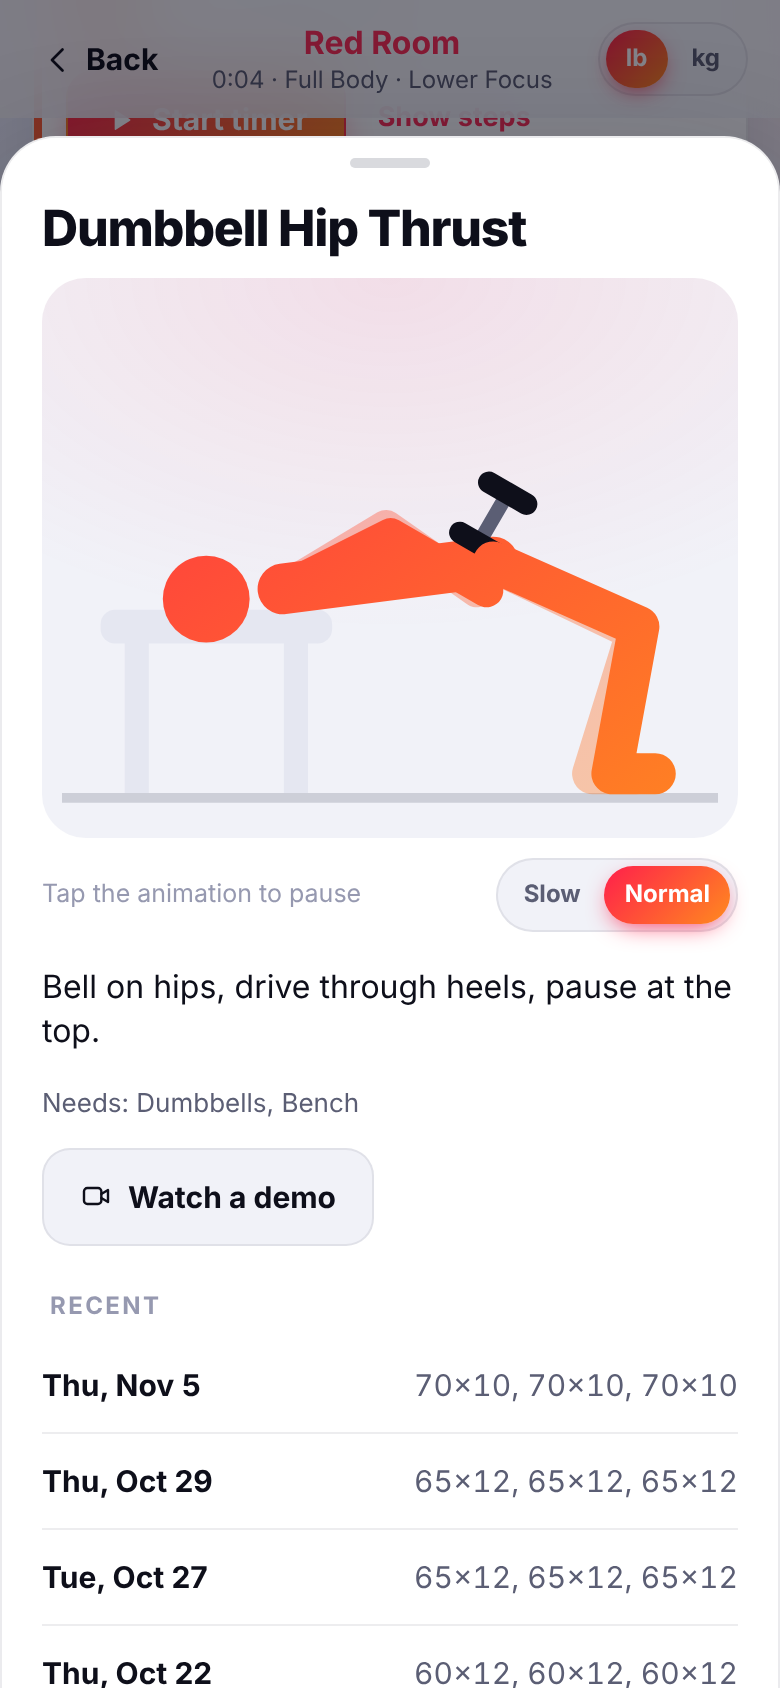
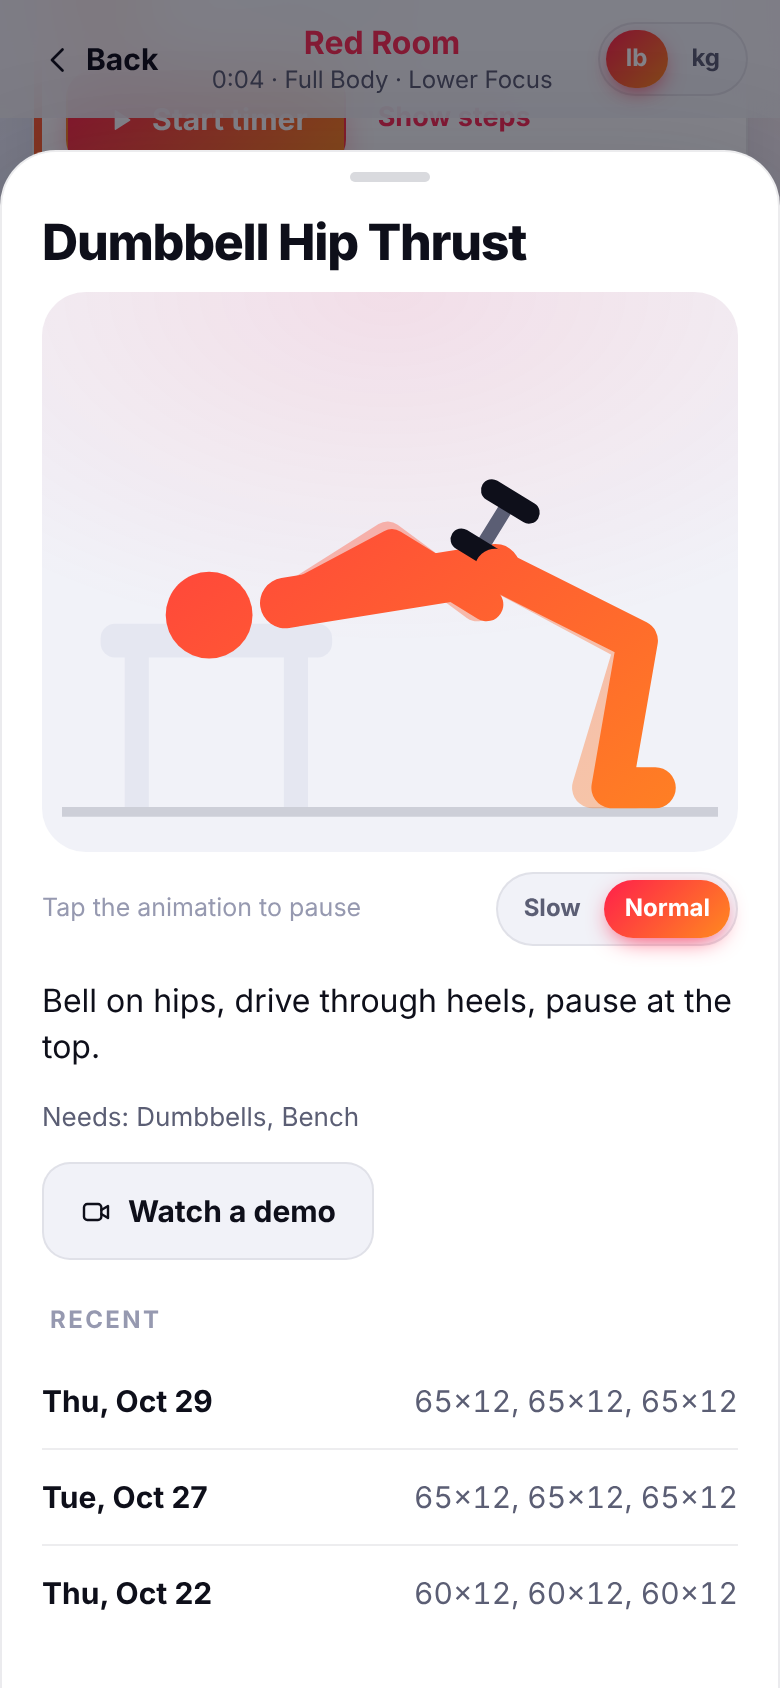
Dumbbells & bodyweight only, like the studio floor
- New setting, on by default (and switched on for existing data): every
  session uses only dumbbells, a bench or bodyweight. Barbells, machines,
  cables, kettlebells, bands and pull-up bars are skipped even when the
  location has them. Swap choices follow the same rule.
- Seven new dumbbell moves with animations: sumo squat, glute bridge,
  floor pullover, front raise, upright row, woodchop and weighted crunch.
- Arms & Shoulders day now pairs a press with a curl as its main lifts.
- Core picks no longer favor weighted moves, so abs work varies more.
- Tests: dumbbell-only sessions never need other kit at any location,
  main lifts use dumbbells, and swap options respect the setting.

Claude-Session: https://claude.ai/code/session_01Tx5GKrw7dyFVqDZcQyPf1z

diff --git a/js/exercises.js b/js/exercises.js
@@ -39,6 +39,7 @@ x('back-squat', 'Back Squat', 'squat', ['barbell'], 'w', { main: true, cue: 'Bra
 x('leg-press', 'Leg Press', 'squat', ['machine'], 'w', { main: true, cue: 'Feet shoulder width, lower until hips start to tuck.' });
 x('goblet-squat', 'Goblet Squat', 'squat', ['db'], 'w', { main: true, cue: 'Elbows inside knees, chest tall, pause at the bottom.' });
 x('db-front-squat', 'Dumbbell Front Squat', 'squat', ['db'], 'w', { main: true, cue: 'Bells on shoulders, elbows high, knees track toes.' });
+x('db-sumo-squat', 'Dumbbell Sumo Squat', 'squat', ['db'], 'w', { main: true, cue: 'Wide stance, toes out, one bell hanging between your legs.' });
 x('kb-goblet-squat', 'Kettlebell Goblet Squat', 'squat', ['kb'], 'w', { main: true, cue: 'Hold the horns, sit deep, stand tall.' });
 x('tempo-squat', 'Tempo Air Squat', 'squat', [], 'bw', { main: true, base: 15, cue: '3 seconds down, 1 second pause, stand fast.' });
 x('band-squat', 'Banded Squat', 'squat', ['band'], 'bw', { main: true, base: 15, cue: 'Stand on the band, handles at shoulders.' });
@@ -71,6 +72,7 @@ x('nordic-neg', 'Nordic Curl Negative', 'ham', [], 'bw', { base: 5, cue: 'Anchor
 // Glutes
 x('bb-hip-thrust', 'Barbell Hip Thrust', 'glute', ['barbell', 'bench'], 'w', { main: true, cue: 'Chin tucked, ribs down, pause at the top.' });
 x('db-hip-thrust', 'Dumbbell Hip Thrust', 'glute', ['db', 'bench'], 'w', { cue: 'Bell on hips, drive through heels, pause at the top.' });
+x('db-glute-bridge', 'Dumbbell Glute Bridge', 'glute', ['db'], 'w', { cue: 'Bell on your hips, drive through the heels, squeeze at the top.' });
 x('cable-kickback', 'Cable Kickback', 'glute', ['machine'], 'w', { uni: true, cue: 'Kick back and slightly out, no low-back arch.' });
 x('sl-bridge', 'Single-leg Glute Bridge', 'glute', [], 'bw', { uni: true, base: 12, cue: 'Other knee to chest, squeeze hard at the top.' });
 x('band-bridge', 'Banded Glute Bridge', 'glute', ['band'], 'bw', { base: 20, cue: 'Band above knees, push knees out.' });
@@ -119,12 +121,15 @@ x('pull-up', 'Pull-up', 'pull_v', ['bar'], 'bw', { main: true, base: 6, cue: 'De
 x('chin-up', 'Chin-up', 'pull_v', ['bar'], 'bw', { main: true, base: 6, cue: 'Palms facing you, chest to the bar.' });
 x('lat-pulldown', 'Lat Pulldown', 'pull_v', ['machine'], 'w', { main: true, cue: 'Pull to the collarbone, elbows to the pockets.' });
 x('db-pullover', 'Dumbbell Pullover', 'pull_v', ['db', 'bench'], 'w', { cue: 'Long arms, stretch the lats, pull back over the chest.' });
+x('db-floor-pullover', 'Floor Pullover', 'pull_v', ['db'], 'w', { cue: 'Lie on the floor, long arms, lower the bell behind your head and pull it back.' });
 x('band-pulldown', 'Banded Lat Pulldown', 'pull_v', ['band'], 'bw', { base: 15, cue: 'Band overhead, pull elbows down to ribs.' });
 x('prone-pulldown', 'Floor Lat Pulldown', 'pull_v', [], 'bw', { base: 12, cue: 'Face down, arms overhead, pull elbows to ribs, squeeze.' });
 
 // Shoulders
 x('lateral-raise', 'Lateral Raise', 'shoulder', ['db'], 'w', { cue: 'Lead with the elbows, stop at shoulder height.' });
 x('rear-delt-fly', 'Rear-delt Fly', 'shoulder', ['db'], 'w', { cue: 'Hinge over, sweep the arms wide, pinkies up.' });
+x('db-front-raise', 'Front Raise', 'shoulder', ['db'], 'w', { cue: 'Straight arms up to shoulder height, no swinging.' });
+x('db-upright-row', 'Dumbbell Upright Row', 'shoulder', ['db'], 'w', { cue: 'Pull the bells up to your chest, elbows lead and finish high.' });
 x('cable-lateral', 'Cable Lateral Raise', 'shoulder', ['machine'], 'w', { uni: true, cue: 'Cable behind you, smooth arc.' });
 x('face-pull', 'Face Pull', 'shoulder', ['machine'], 'w', { cue: 'Rope to the eyes, thumbs back.' });
 x('band-pull-apart', 'Band Pull-apart', 'shoulder', ['band'], 'bw', { base: 20, cue: 'Straight arms, pull the band to the chest.' });
@@ -158,6 +163,8 @@ x('flutter', 'Flutter Kicks', 'core', [], 't', { base: 30, cue: 'Low back down, 
 x('mountain-climber', 'Mountain Climber', 'core', [], 't', { base: 30, cue: 'Hips level, knees drive fast.' });
 x('russian-twist', 'Dumbbell Russian Twist', 'core', ['db'], 'w', { uni: true, cue: 'Lean back, rotate from the ribs.' });
 x('hanging-knee', 'Hanging Knee Raise', 'core', ['bar'], 'bw', { base: 10, cue: 'No swing, curl the pelvis up.' });
+x('db-woodchop', 'Dumbbell Woodchop', 'core', ['db'], 'w', { uni: true, cue: 'Bell high over one shoulder, chop down across to the opposite knee.' });
+x('db-crunch', 'Weighted Crunch', 'core', ['db'], 'w', { cue: 'Bell on your chest, curl your shoulders off the floor, lower slowly.' });
 x('woodchop', 'Cable Woodchop', 'core', ['machine'], 'w', { uni: true, cue: 'Rotate through the torso, arms long.' });
 x('pallof', 'Pallof Press', 'core', ['band'], 'bw', { uni: true, base: 10, cue: 'Press out and resist the rotation.' });
 x('bird-dog', 'Bird Dog', 'core', [], 'bw', { uni: true, base: 10, cue: 'Reach long, hips square, pause.' });

diff --git a/js/anim.js b/js/anim.js
@@ -68,6 +68,14 @@ const T = {
     const slow = v === 'tempo' ? 2600 : 1200;
     return { props, frames: [[P({ feet, hands, elbow }), slow, 300], [P({ hip: [84, 116], torso: 148, feet, hands, elbow }), 900, 200]] };
   },
+  sumo() {
+    const feet = [[70, 146], [130, 146]];
+    const elbow = [[-0.3, 1], [0.3, 1]];
+    return {
+      view: 'front', props: [{ t: 'db', at: 'hc' }],
+      frames: [[F({ hip: [100, 90], feet, hands: [[97, 114], [103, 114]], elbow }), 1200, 250], [F({ hip: [100, 112], feet, hands: [[97, 136], [103, 136]], elbow }), 900, 200]],
+    };
+  },
   jumpsquat() {
     const feet = [[104, 146], [98, 146]];
     const stand = P({ feet, hands: HANG });
@@ -167,7 +175,7 @@ const T = {
   },
   bridge(v) {
     const far = v === 'sl' ? [114, 100] : [122, 146];
-    const props = v === 'band' ? [{ t: 'ring', at: 'k1' }] : [];
+    const props = v === 'band' ? [{ t: 'ring', at: 'k1' }] : v === 'db' ? [{ t: 'db', at: 'hip', off: [0, -9] }] : [];
     const base = { head: -95, hands: [[100, 146], [98, 146]], elbow: both([0, 1]), knee: both([0, -1]) };
     return {
       props,
@@ -216,6 +224,9 @@ const T = {
   },
   floorpress(v) {
     const base = { hip: [118, 140], torso: -90, head: -90, feet: [[140, 146], [136, 146]], knee: both([0, -1]), elbow: both([0, 1]) };
+    if (v === 'pullover') {
+      return { props: [{ t: 'db', at: 'hc' }], frames: [[P({ ...base, hands: [[78, 92], [76, 92]] }), 1400, 150], [P({ ...base, hands: [[26, 136], [24, 136]], elbow: both([0, -1]) }), 1100, 200]] };
+    }
     if (v === 'skull') {
       return { props: [{ t: 'db', at: 'h1' }, { t: 'db', at: 'h2', far: 1 }], frames: [[P({ ...base, hands: [[78, 92], [76, 92]] }), 1200, 150], [P({ ...base, hands: [[58, 118], [56, 118]], elbow: both([0.3, -1]) }), 900, 150]] };
     }
@@ -358,6 +369,18 @@ const T = {
       frames: [[P({ ...base, hands: [S(2, 44), S(0, 44)] }), 1000, 150], [P({ ...base, hands: [S(-34, 14), S(-36, 14)], elbow: both([0, 1]) }), 900, 250]],
     };
   },
+  uprow() {
+    const feet = [[104, 146], [98, 146]];
+    return { props: [{ t: 'db', at: 'h1' }, { t: 'db', at: 'h2', far: 1 }], frames: [[P({ feet, hands: [S(6, 44), S(4, 44)] }), 900, 150], [P({ feet, hands: [S(10, 8), S(8, 8)], elbow: both([-0.2, -1]) }), 900, 250]] };
+  },
+  frontraise() {
+    const feet = [[104, 146], [98, 146]];
+    return { props: [{ t: 'db', at: 'h1' }, { t: 'db', at: 'h2', far: 1 }], frames: [[P({ feet, hands: [S(6, 46), S(4, 46)] }), 1000, 150], [P({ feet, hands: [S(47, 0), S(45, 0)], elbow: both([0, 1]) }), 1000, 250]] };
+  },
+  crunch() {
+    const base = { hip: [100, 140], feet: [[126, 146], [122, 146]], knee: both([0, -1]), hands: [S(10, -8), S(8, -8)], elbow: both([1, 1]) };
+    return { props: [{ t: 'db', at: 'hc' }], frames: [[P({ ...base, torso: -88, head: -92 }), 900, 150], [P({ ...base, torso: -125, head: -135 }), 800, 250]] };
+  },
   facepull() {
     const feet = [[110, 146], [92, 146]];
     return {
@@ -469,10 +492,10 @@ const T = {
       frames: [[P({ hip: [100, 98], feet: [[100, 156], [98, 156]], toe: [20, 20], hands }), 1000, 150], [P({ hip: [98, 96], torso: 186, feet: [[126, 98], [124, 98]], knee: both([1, -0.3]), toe: [60, 60], hands }), 800, 250]],
     };
   },
-  woodchop() {
+  woodchop(v) {
     const feet = [[76, 146], [124, 146]];
     return {
-      view: 'front', props: [{ t: 'cable', from: 'hc', to: [192, 14] }],
+      view: 'front', props: [v === 'db' ? { t: 'db', at: 'hc' } : { t: 'cable', from: 'hc', to: [192, 14] }],
       frames: [[F({ hip: [100, 86], torso: 172, feet, hands: [[146, 36], [142, 40]], elbow: [[0, 1], [0, 1]] }), 900, 150], [F({ hip: [96, 96], torso: 194, feet, hands: [[60, 122], [64, 124]], elbow: [[0, 1], [0, 1]] }), 800, 250]],
     };
   },
@@ -623,7 +646,8 @@ const EX = {
   'bench-dip': ['dip'], 'diamond-push-up': ['pushup'], 'band-pushdown': ['pushdown', 'band'], plank: ['plank'], 'side-plank': ['sideplank'],
   'dead-bug': ['deadbug'], 'hollow-hold': ['hollow'], bicycle: ['bicycle'], 'v-up': ['vup'], flutter: ['flutter'],
   'mountain-climber': ['climber'], 'russian-twist': ['twist'], 'hanging-knee': ['hangknee'], woodchop: ['woodchop'], pallof: ['pallof'],
-  'bird-dog': ['birddog'], 'db-thruster': ['thruster'], 'db-snatch': ['snatch'], 'man-maker': ['burpee', 'manmaker'],
+  'bird-dog': ['birddog'], 'db-sumo-squat': ['sumo'], 'db-glute-bridge': ['bridge', 'db'], 'db-floor-pullover': ['floorpress', 'pullover'],
+  'db-front-raise': ['frontraise'], 'db-upright-row': ['uprow'], 'db-woodchop': ['woodchop', 'db'], 'db-crunch': ['crunch'], 'db-thruster': ['thruster'], 'db-snatch': ['snatch'], 'man-maker': ['burpee', 'manmaker'],
   'kb-clean-press': ['cleanpress'], burpee: ['burpee'], 'squat-thrust': ['burpee', 'thrust'], 'db-squat-press': ['thruster', 'squatpress'],
 };
 

diff --git a/js/app.js b/js/app.js
@@ -2,7 +2,7 @@ import { store, uid } from './store.js';
 import { icon } from './icons.js';
 import { EX_BY_ID, LOCATIONS, EQUIPMENT, CARDIO } from './exercises.js';
 import {
-  TYPES, ROOM_IDS, FOCI, FOCUS_IDS, PHASES, DEFAULT_WEEK, DEFAULT_FOCUS_WEEK, buildSession, cycleInfo, typeFor, focusFor,
+  TYPES, ROOM_IDS, FOCI, FOCUS_IDS, PHASES, STUDIO_KIT, kitFor, DEFAULT_WEEK, DEFAULT_FOCUS_WEEK, buildSession, cycleInfo, typeFor, focusFor,
   toISO, parseISO, addDays, mondayOf, weekday, blockSeconds, alternatives, suggestLoad, lastPerformance,
   sessionVolume, personalBests, newBests,
 } from './program.js';
@@ -218,7 +218,7 @@ function renderToday() {
   html += `<section class="card">
     <div class="card-head"><h2>Training at</h2><button class="text-btn" data-action="goto" data-tab="settings">Edit equipment</button></div>
     ${locGrid()}
-    <p class="muted small">${esc(loc ? loc.sub : 'Your own equipment mix')}. Workouts adapt automatically.</p>
+    <p class="muted small">${S().dbOnly ? `${S().equipment.includes('db') ? 'Dumbbells' : 'No dumbbells here, so bodyweight'}${S().dbOnly && S().equipment.includes('db') ? ' and bodyweight' : ''} only, like the studio floor` : esc(loc ? loc.sub : 'Your own equipment mix')}. Workouts adapt automatically.</p>
   </section>`;
 
   if (!isRest && !done.length) html += `<button class="row-link" data-action="log-class">${icon('ticket', 18)}<span><b>Took a class at the studio?</b><small>Log it and it counts toward your week</small></span>${icon('chevR', 16)}</button>`;
@@ -407,8 +407,9 @@ function renderSettings() {
 
   html += `<h3 class="section-title">Where you train</h3>
   <section class="card list">
+    <div class="set-row"><span><b>Dumbbells & bodyweight only</b><small>Like the studio floor. Turn off to also use barbells, machines, kettlebells, bands or a pull-up bar.</small></span>${toggle('dbOnly', s.dbOnly)}</div>
     ${LOCATIONS.map((l) => `<button class="set-row radio ${s.location === l.id ? 'on' : ''}" data-action="set-location" data-v="${l.id}"><span><b>${esc(l.name)}</b><small>${esc(l.sub)}</small></span><i class="dot"></i></button>`).join('')}
-    <div class="set-col"><b>Equipment</b><div class="chips wrap">${EQUIPMENT.map((e) => `<button class="chip ${s.equipment.includes(e.id) ? 'on' : ''}" data-action="equip" data-v="${e.id}">${esc(e.name)}</button>`).join('')}</div></div>
+    <div class="set-col"><b>Equipment here</b>${s.dbOnly ? '<small class="muted">Greyed-out items are skipped while dumbbells & bodyweight only is on.</small>' : ''}<div class="chips wrap">${EQUIPMENT.map((e) => `<button class="chip ${s.equipment.includes(e.id) ? 'on' : ''} ${s.dbOnly && !STUDIO_KIT.includes(e.id) ? 'dim' : ''}" data-action="equip" data-v="${e.id}">${esc(e.name)}</button>`).join('')}</div></div>
     <div class="set-col"><b>Cardio</b><small class="muted">Used for Red Room intervals</small><div class="chips wrap">${CARDIO.map((c) => `<button class="chip ${s.cardio === c.id ? 'on' : ''}" data-action="cardio" data-v="${c.id}">${esc(c.name)}</button>`).join('')}</div></div>
   </section>`;
 
@@ -767,8 +768,8 @@ function swapSheet(bid, i) {
   const a = st().active;
   const b = a.plan.blocks.find((x) => x.id === bid);
   const it = b.items[i];
-  const alts = alternatives(it, b, a.plan.focus, a.plan.type, S().equipment);
-  openSheet(`<h2>Swap exercise</h2><p class="muted small">Same kind of movement, with the equipment you have. Your pick is remembered.</p>
+  const alts = alternatives(it, b, a.plan.focus, a.plan.type, kitFor(S()));
+  openSheet(`<h2>Swap exercise</h2><p class="muted small">Same kind of movement, ${S().dbOnly ? 'dumbbells or bodyweight only' : 'with the equipment you have'}. Your pick is remembered.</p>
     <div class="list">${alts.map((e) => `<button class="set-row radio with-anim ${e.id === it.exId ? 'on' : ''}" data-action="do-swap" data-b="${bid}" data-i="${i}" data-v="${e.id}">${hasAnim(e.id) ? `<span class="swap-anim" data-anim="${e.id}"></span>` : ''}<span><b>${esc(e.name)}</b><small>${esc(e.cue || '')}</small></span><i class="dot"></i></button>`).join('')}</div>`);
 }
 

diff --git a/js/program.js b/js/program.js
@@ -102,6 +102,15 @@ function shuffle(list, r) {
 
 /* ------------------------------------------------------------------ picking */
 
+/** Studio floor kit: dumbbells and a bench. Bodyweight moves need nothing. */
+export const STUDIO_KIT = ['db', 'bench'];
+
+/** The equipment a session may use: everything on hand, or just dumbbells and bodyweight. */
+export function kitFor(settings) {
+  const eq = settings.equipment || [];
+  return settings.dbOnly ? eq.filter((e) => STUDIO_KIT.includes(e)) : eq;
+}
+
 /** Every move that fits a slot's patterns with the kit on hand. */
 export function candidatesFor(patterns, equipment) {
   return EXERCISES.filter((e) => patterns.includes(e.pattern) && isAvailable(e, equipment));
@@ -120,7 +129,8 @@ function chooseExercise(patterns, { equipment, used, r, main, preferred }) {
     if (loaded.length) list = loaded;
   }
   const hasLoaded = list.some((e) => e.load === 'w');
-  const weights = list.map((e) => (e.pattern === patterns[0] ? 2 : 1) * (hasLoaded && e.load === 'w' ? 5 : 1));
+  // Prefer loaded moves when weights are around, except for core where variety matters more.
+  const weights = list.map((e) => (e.pattern === patterns[0] ? 2 : 1) * (hasLoaded && e.load === 'w' && e.pattern !== 'core' ? 5 : 1));
   return weightedPick(list, weights, r);
 }
 
@@ -148,7 +158,7 @@ function makeItem(ex, role, phase, settings, short = false) {
 /* ------------------------------------------------------------------ lift */
 
 const LIFT_SLOTS = {
-  arms: { m1: ['push_v'], m2: ['pull_v', 'pull_h'], a1: ['bi'], a2: ['tri'], a3: ['shoulder'], a4: ['shoulder', 'push_v'], a5: ['bi', 'tri'], c1: ['core'] },
+  arms: { m1: ['push_v'], m2: ['bi'], a1: ['tri'], a2: ['shoulder'], a3: ['bi', 'tri'], a4: ['shoulder', 'push_v'], a5: ['tri', 'bi'], c1: ['core'] },
   legs: { m1: ['squat'], m2: ['hinge'], a1: ['lunge'], a2: ['ham', 'hinge'], a3: ['glute'], a4: ['quad', 'lunge'], a5: ['calf', 'glute'], c1: ['core'] },
   upper: { m1: ['push_h'], m2: ['pull_h', 'pull_v'], a1: ['pull_v', 'pull_h'], a2: ['push_h'], a3: ['pull_h', 'pull_v'], a4: ['core'], a5: ['push_h', 'push_v'], c1: ['core'] },
   core: { m1: ['glute', 'hinge'], m2: ['squat', 'lunge'], a1: ['core'], a2: ['glute'], a3: ['lunge', 'ham'], a4: ['core'], a5: ['glute', 'hinge'], c1: ['core'] },
@@ -173,7 +183,7 @@ const STRETCHES = ['Hamstring Stretch', 'Hip Flexor Stretch · left', 'Hip Flexo
 const MOBILITY = ['Cat-Cow', "World's Greatest Stretch · left", "World's Greatest Stretch · right", '90/90 Hip Switches', 'Thread the Needle', 'Deep Squat Hold', 'Pigeon · left', 'Pigeon · right', 'Thoracic Rotations', "Child's Pose"];
 
 const bucket = (minutes) => (minutes <= 35 ? 30 : minutes <= 50 ? 45 : 60);
-const equipKey = (s) => [...(s.equipment || [])].sort().join('+') || 'bw';
+const equipKey = (s) => [...kitFor(s)].sort().join('+') || 'bw';
 
 /** A deterministic session for a date. Main lifts stay put through the cycle
  *  (so you can add weight week to week); accessories rotate weekly. */
@@ -190,7 +200,7 @@ export function buildSession({ date, type, focus, settings, swaps = {}, salt = 0
 
 function liftBlocks(focus, settings, phase, mins, salt, swaps, week, date) {
   const slots = LIFT_SLOTS[focus];
-  const eq = settings.equipment || [];
+  const eq = kitFor(settings);
   const used = new Set();
   const blocks = [];
   blocks.push({ id: 'warmup', kind: 'timed', title: 'Warm-up', segments: WARMUPS[focus].slice(0, mins === 30 ? 4 : 5).map((label) => ({ label, sec: 40 })) });
@@ -315,7 +325,7 @@ function redBlocks(date, focus, settings, phase, mins, salt, swaps) {
   const used = new Set();
   const patterns = shuffle(FLOOR_PATTERNS[focus], r);
   // Floor work is dumbbells, a bench, bands and bodyweight; skip barbells and machines if there are dumbbells.
-  const all = settings.equipment || [];
+  const all = kitFor(settings);
   const floorKit = all.includes('db') || all.includes('kb') ? all.filter((e) => e !== 'barbell' && e !== 'machine') : all;
   const floor = (n) => {
     const items = [];

diff --git a/js/store.js b/js/store.js
@@ -10,7 +10,7 @@ const usesPounds = () => {
 };
 
 export const DEFAULTS = () => ({
-  version: 3,
+  version: 4,
   settings: {
     unit: usesPounds() ? 'lb' : 'kg',
     theme: 'auto',
@@ -23,6 +23,7 @@ export const DEFAULTS = () => ({
     sound: true,
     restMain: 120,
     restAcc: 60,
+    dbOnly: true, // dumbbells and bodyweight only, like the studio floor
     goal: DEFAULT_WEEK.filter((t) => t !== 'rest').length, // sessions a week
     programStart: mondayOf(toISO(new Date())), // week 1 of the current 4-week cycle
     onboarded: false,
@@ -67,6 +68,10 @@ export function migrate(parsed) {
     for (const [d, v] of Object.entries(out.days || {})) days[d] = v.focus ? { ...v, focus: fullV3(v.focus) } : v;
     const sessions = (out.sessions || []).map((x) => (x.focus === 'full' ? { ...x, focus: 'fullLower' } : x));
     out = { ...out, version: 3, settings: s, plan, focusWeek: [...DEFAULT_FOCUS_WEEK], days, sessions };
+  }
+  if (out.version < 4) {
+    // Studio style: dumbbells and bodyweight only, on by default.
+    out = { ...out, version: 4, settings: { ...(out.settings || {}), dbOnly: true } };
   }
   return out;
 }

diff --git a/css/styles.css b/css/styles.css
@@ -573,3 +573,4 @@ body.in-workout .tabbar { transform: translate(-50%, 140%); opacity: 0; pointer-
 .swap-day i { position: absolute; top: 9px; right: 9px; color: var(--c); }
 .swap-day.t-rest i { color: var(--text-3); }
 .swap-day:active { transform: scale(.97); }
+.chip.dim { opacity: .38; }

diff --git a/README.md b/README.md
@@ -49,6 +49,10 @@ Four tabs:
   change its focus once or every week, or **swap two days** (room and focus
   trade places for that week). Abs are built into every session (a core move
   in the last Lift block, and every Red Room floor circuit ends on core).
+- **Dumbbells & bodyweight only** (on by default), like the studio floor: every
+  exercise uses dumbbells, a bench or just your body (push-ups, planks, lunges).
+  Even at a full gym it skips barbells, machines, cables, kettlebells, bands and
+  pull-up bars. Turn it off in Settings → Where you train to use them.
 - **4-week cycles, all year**: Base (3 x 10), Build (4 x 8), Peak (4 x 6), then a
   lighter Deload week, and repeat. Main lifts stay the same through a cycle so
   you can add weight; accessories rotate weekly.
